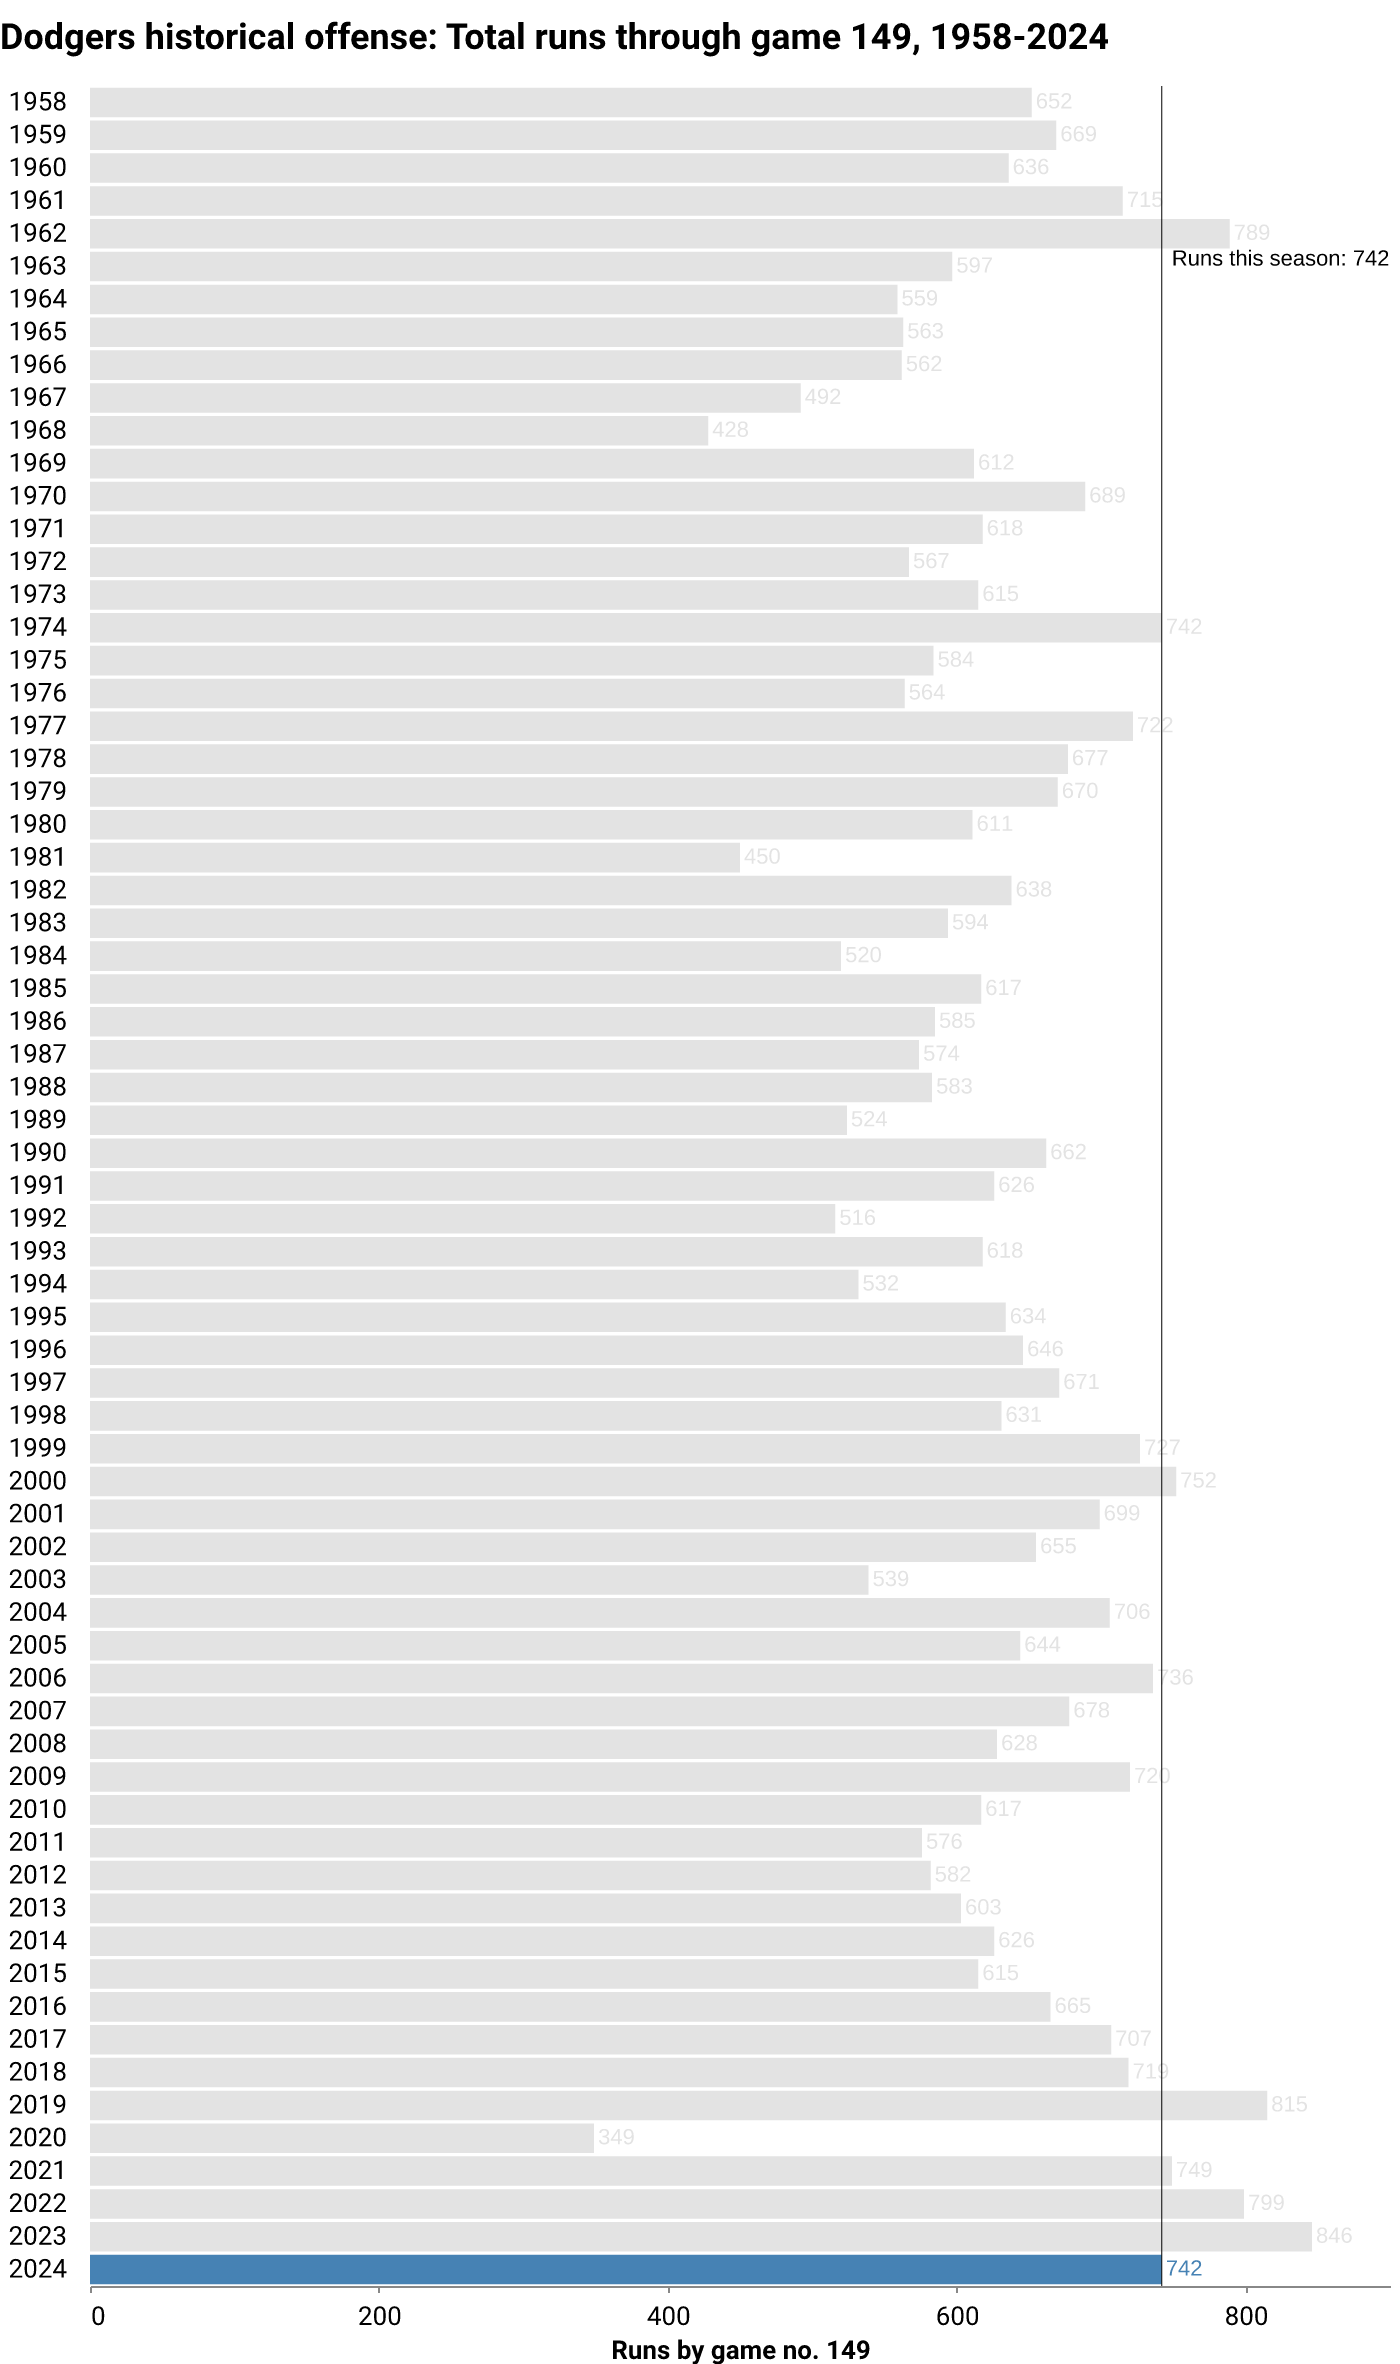
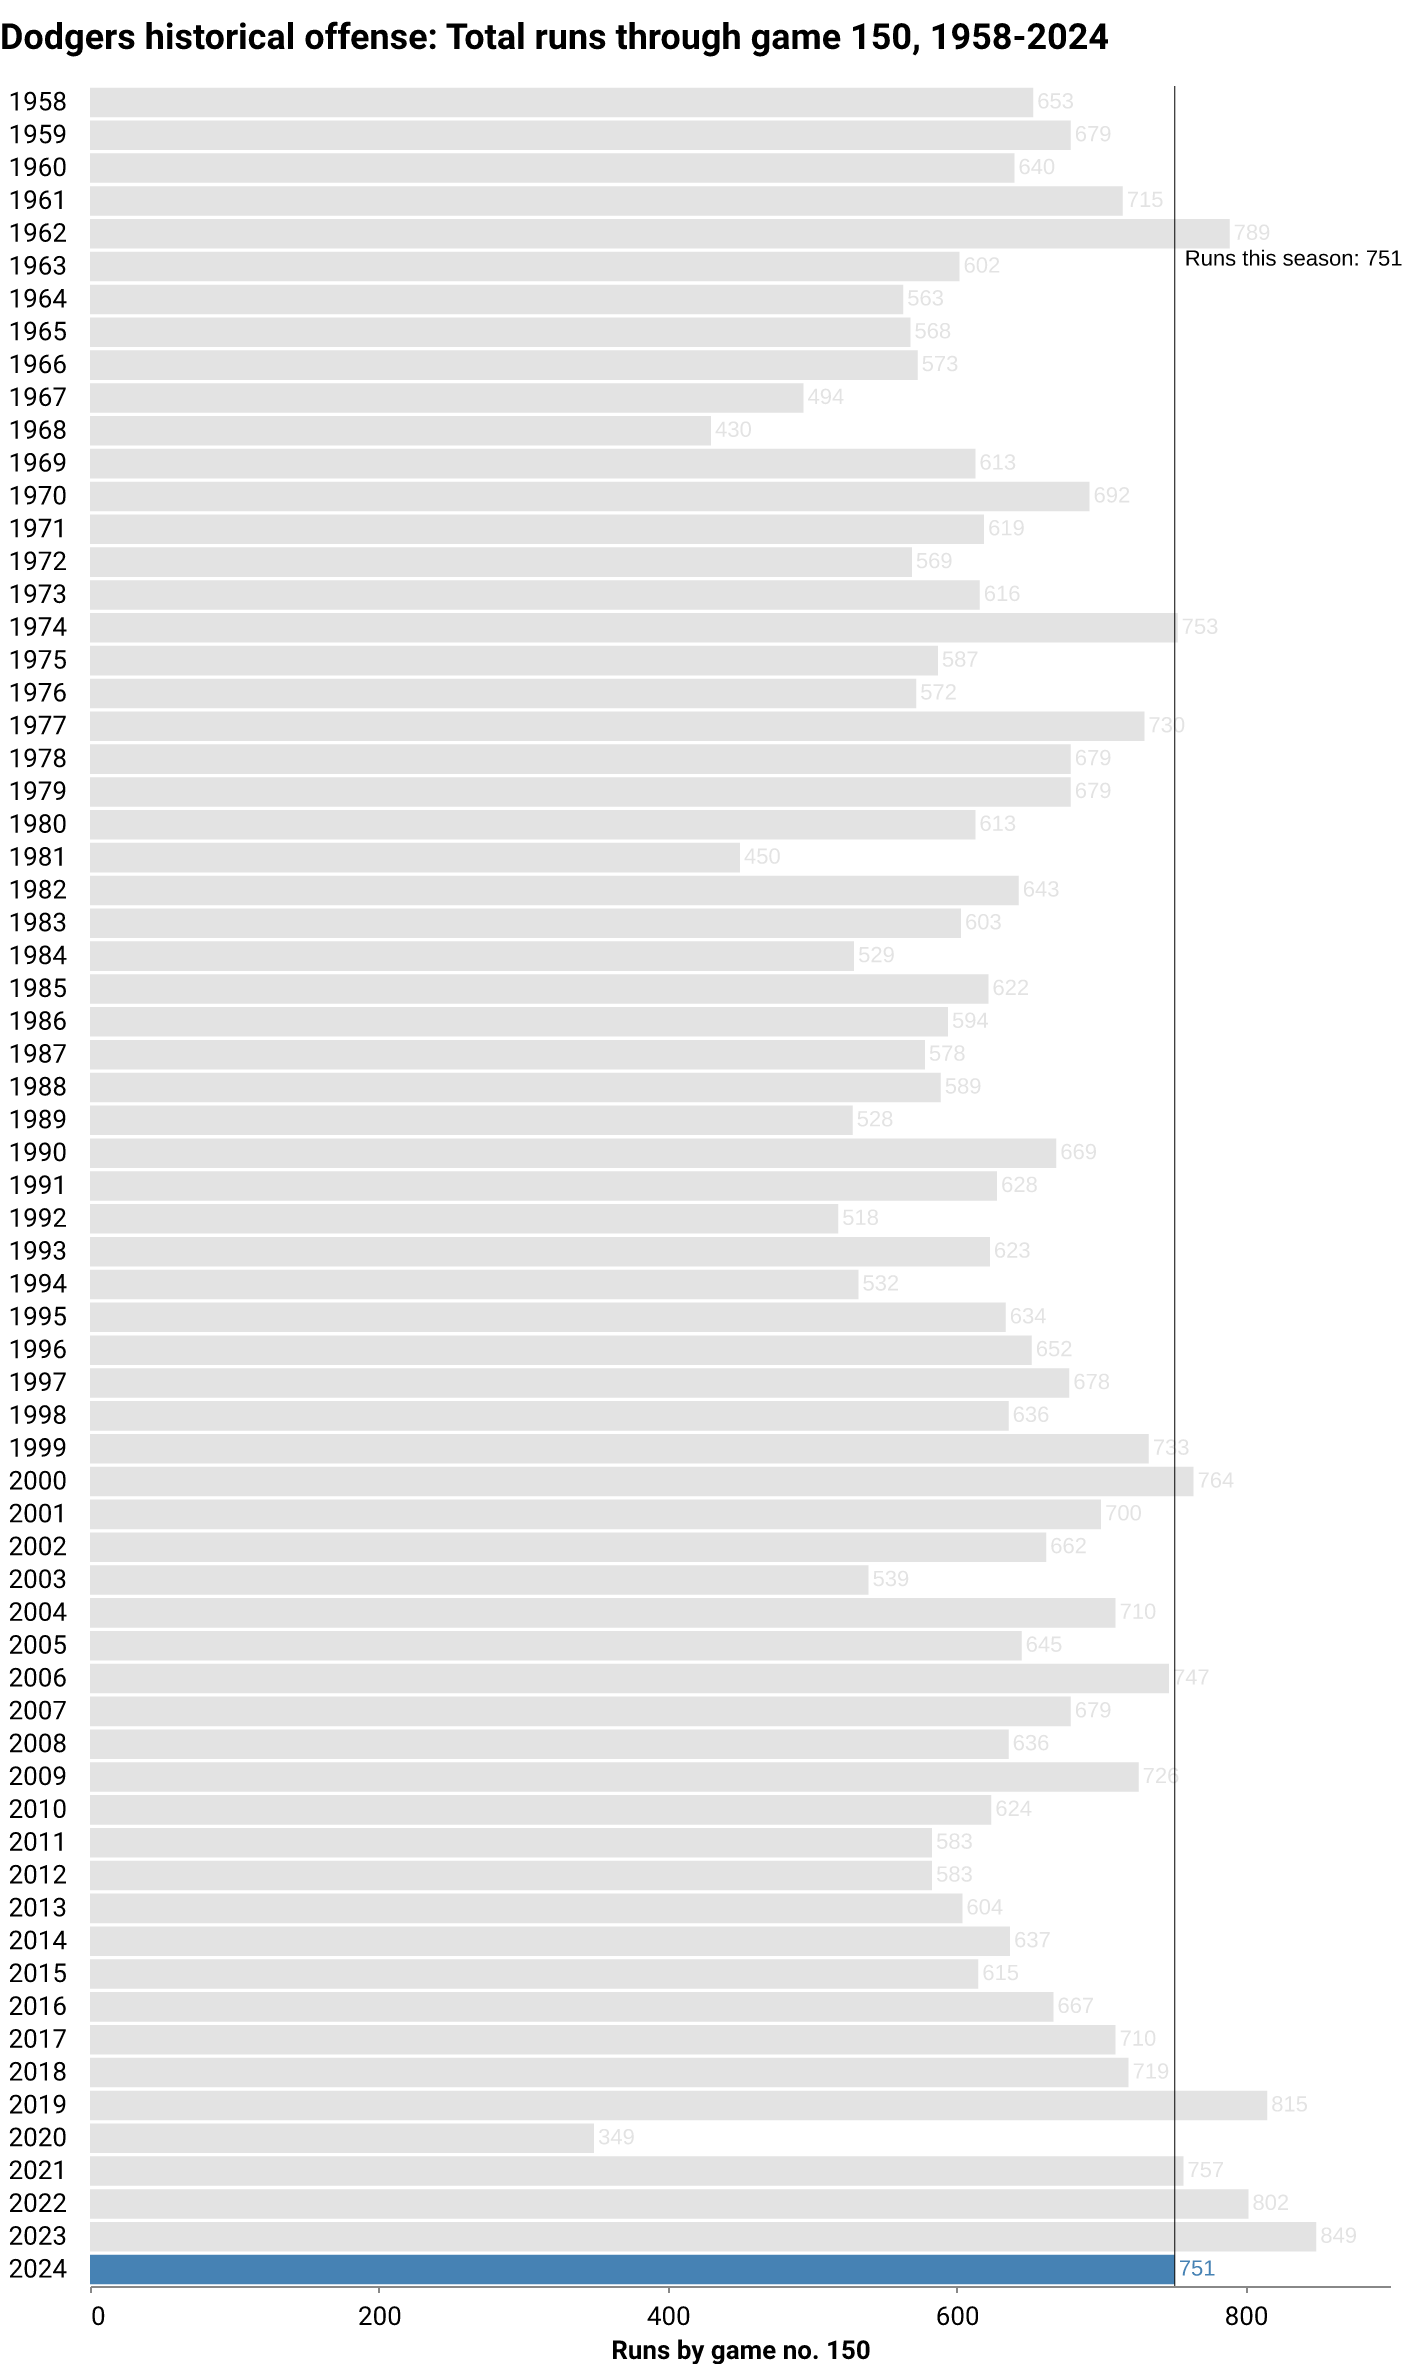
deploy: af1ca62db7074ff1422a38278d37bf7021b33aec

diff --git a/index.html b/index.html
@@ -184,7 +184,7 @@
 <p class="subhead">
     
     
-    <span class="highlight">LOS ANGELES</span> <span class="updated">(September 17)</span> — After <span class="highlight">149</span> games this season, the Dodgers are in <span class="highlight">1st</span> place in the National League West division. The team has compiled a <span class="highlight">88-61</span> record, winning <span class="highlight">59%</span> of its games so far. The last game was a <span class="highlight">9-2</span> away <span class="highlight">win</span> against the Atlanta Braves in front of <span class="highlight">39,198</span> fans. They've won <span class="highlight">4 of the last 10</span>.
+    <span class="highlight">LOS ANGELES</span> <span class="updated">(September 17)</span> — After <span class="highlight">150</span> games this season, the Dodgers are in <span class="highlight">1st</span> place in the National League West division. The team has compiled a <span class="highlight">89-61</span> record, winning <span class="highlight">59%</span> of its games so far. The last game was a <span class="highlight">9-0</span> away <span class="highlight">win</span> against the Atlanta Braves in front of <span class="highlight">37,109</span> fans. They've won <span class="highlight">5 of the last 10</span>.
 </p>
 </div>
 
@@ -206,10 +206,10 @@
             Wins
           </div>
           <div class="card-body">
-            <p class="card-text">88</p>
+            <p class="card-text">89</p>
           </div>
           <div class="card-footer text-muted">
-        This point last season: 92
+        This point last season: 93
           </div>
         </div>
       </div>
@@ -238,10 +238,10 @@
             Record
           </div>
           <div class="card-body">
-            <p class="card-text">88-61</p>
+            <p class="card-text">89-61</p>
           </div>
           <div class="card-footer text-muted">
-        This point last season: 92-57
+        This point last season: 93-57
           </div>
         </div>
       </div>
@@ -302,7 +302,7 @@
             Runs
           </div>
           <div class="card-body">
-            <p class="card-text">742</p>
+            <p class="card-text">751</p>
           </div>
           <div class="card-footer text-muted">
         League rank: 2
@@ -321,7 +321,7 @@
             <p class="card-text">636</p>
           </div>
           <div class="card-footer text-muted">
-        This point last season: 656
+        This point last season: 658
           </div>
         </div>
       </div>
@@ -334,10 +334,10 @@
             Run differential
           </div>
           <div class="card-body">
-            <p class="card-text">106</p>
+            <p class="card-text">115</p>
           </div>
           <div class="card-footer text-muted">
-        This point last season: 190
+        This point last season: 191
           </div>
         </div>
       </div>
@@ -408,7 +408,7 @@
             Batting average
           </div>
           <div class="card-body">
-            <p class="card-text">.254</p>
+            <p class="card-text">.253</p>
           </div>
           <div class="card-footer text-muted">
         Last decade average: .253
@@ -424,7 +424,7 @@
             Home runs
           </div>
           <div class="card-body">
-            <p class="card-text">208</p>
+            <p class="card-text">209</p>
           </div>
           <div class="card-footer text-muted">
         League rank: 1
@@ -440,7 +440,7 @@
             Home runs/game
           </div>
           <div class="card-body">
-            <p class="card-text">1.4</p>
+            <p class="card-text">1.39</p>
           </div>
           <div class="card-footer text-muted">
         Last decade average: 1.36
@@ -472,7 +472,7 @@
             Stolen bases
           </div>
           <div class="card-body">
-            <p class="card-text">113</p>
+            <p class="card-text">114</p>
           </div>
           <div class="card-footer text-muted">
         League rank: 7
@@ -605,10 +605,10 @@
             Strikeouts
           </div>
           <div class="card-body">
-            <p class="card-text">1262</p>
+            <p class="card-text">1267</p>
           </div>
           <div class="card-footer text-muted">
-        League rank: 7
+        League rank: 8
           </div>
         </div>
       </div>
@@ -621,7 +621,7 @@
             Walks
           </div>
           <div class="card-body">
-            <p class="card-text">460</p>
+            <p class="card-text">464</p>
           </div>
           <div class="card-footer text-muted">
         League rank: 10
@@ -637,7 +637,7 @@
             ERA
           </div>
           <div class="card-body">
-            <p class="card-text">3.91</p>
+            <p class="card-text">3.88</p>
           </div>
           <div class="card-footer text-muted">
         League rank: 5
@@ -716,7 +716,7 @@
     </div>
 </div>
 
-  <p class="dated">Notes: Last updated September 17, 2024, 12:03 AM PT. More <a href="https://github.com/stiles/dodgers/blob/main/README.md">about the data</a>.</p>
+  <p class="dated">Notes: Last updated September 17, 2024, 4:03 AM PT. More <a href="https://github.com/stiles/dodgers/blob/main/README.md">about the data</a>.</p>
   
 </div>
 
